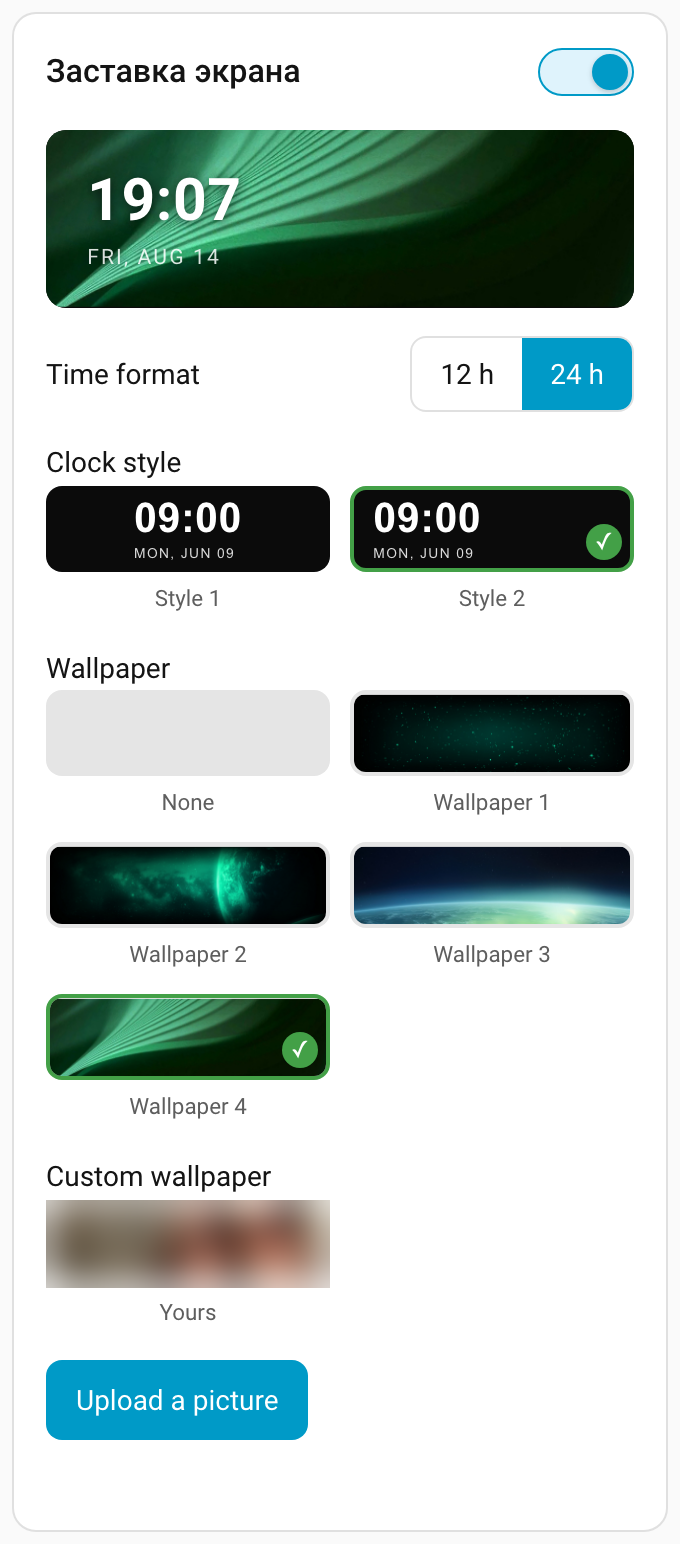
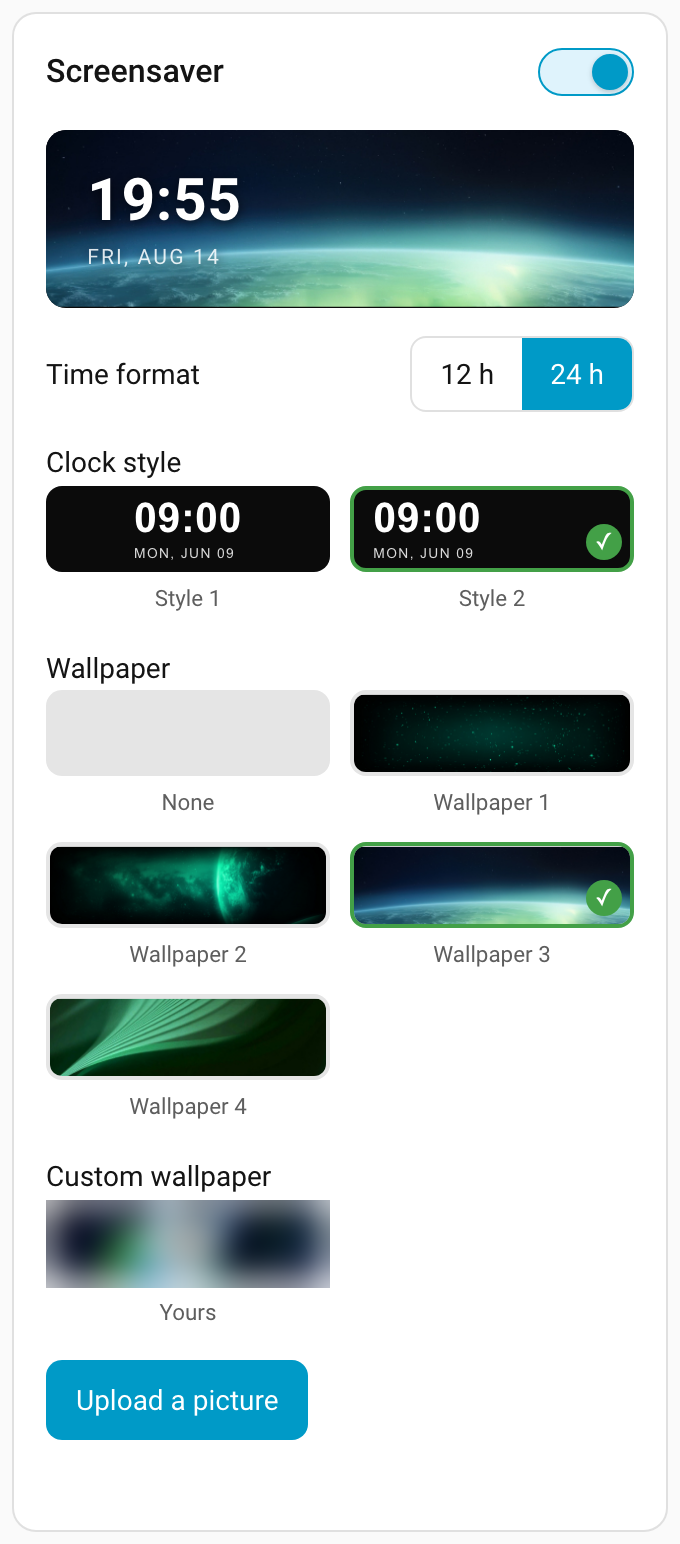
Ship the dashboard from the screenshots, and document the settings
The picture at the top of the README was the only place the layout existed;
docs/dashboard.yaml is now the same view, ready to paste, with this install's
device id and entity prefix called out as the two things to change.

Also documents the options flow, and says where translations go now that both
the integration and the card have a single place to add a language.

diff --git a/README.md b/README.md
@@ -9,6 +9,9 @@ screensaver — clock style, time format and wallpaper, your own included.
 
 ![The charger on a dashboard](docs/dashboard.png)
 
+*That dashboard is [`docs/dashboard.yaml`](docs/dashboard.yaml) — one screenful,
+ready to paste.*
+
 > Not affiliated with, endorsed by, or supported by UGREEN. Trademarks belong to
 > their respective owners.
 
@@ -202,11 +205,35 @@ UGREEN's own storage (`upload-pre-info` → presigned `PUT` → `wallPaper/save`
 the charger is then handed the resulting id and URL through a `PIC_data`
 property, which is what makes it download the file.
 
+## Settings
+
+*Settings → Devices & Services → UGREEN Connect → Configure*:
+
+| Setting | Default | Notes |
+|---|---|---|
+| Poll every | 5 s | each poll is two cloud calls plus a wait for the charger to answer |
+| Region | as set up | only if the account itself moved servers; the password is re-checked first |
+| Debug snapshot | off | writes the unedited cloud payload to `ugreen_connect_debug.json` |
+
+Five seconds keeps the wattage live enough to watch a laptop charge. It is also
+a lot of traffic against someone else's API, so raise it if you would rather be
+gentle — nothing else depends on the rate.
+
+## Translating
+
+Everything the integration says goes through
+`custom_components/ugreen_connect/translations/`. Copy `en.json`, name it for
+your language, translate the values, and open a pull request. Only English and
+Russian exist so far.
+
+The dashboard card keeps its own text in one table at the top of
+`www/ugreen-wallpaper-card.js`: copy the `en` block, key it by language code,
+and translate. Missing keys fall back to English, so a partial translation is
+fine.
+
 ## Limitations
 
-- **Cloud polling only.** The default interval is 5 s, which suits watching a
-  laptop charge but is a lot of traffic against someone else's API; raise it in
-  `const.py` (`DEFAULT_SCAN_INTERVAL`) if you would rather be gentle.
+- **Cloud polling only**, five seconds apart by default — see *Settings* above.
 - Logging in from the app with the same account can invalidate the integration's
   token. It re-authenticates on rejection, so this is self-healing.
 - Per-port switching (`SET_PORT_CONTROL`) and the `custom` charging-mode editor
